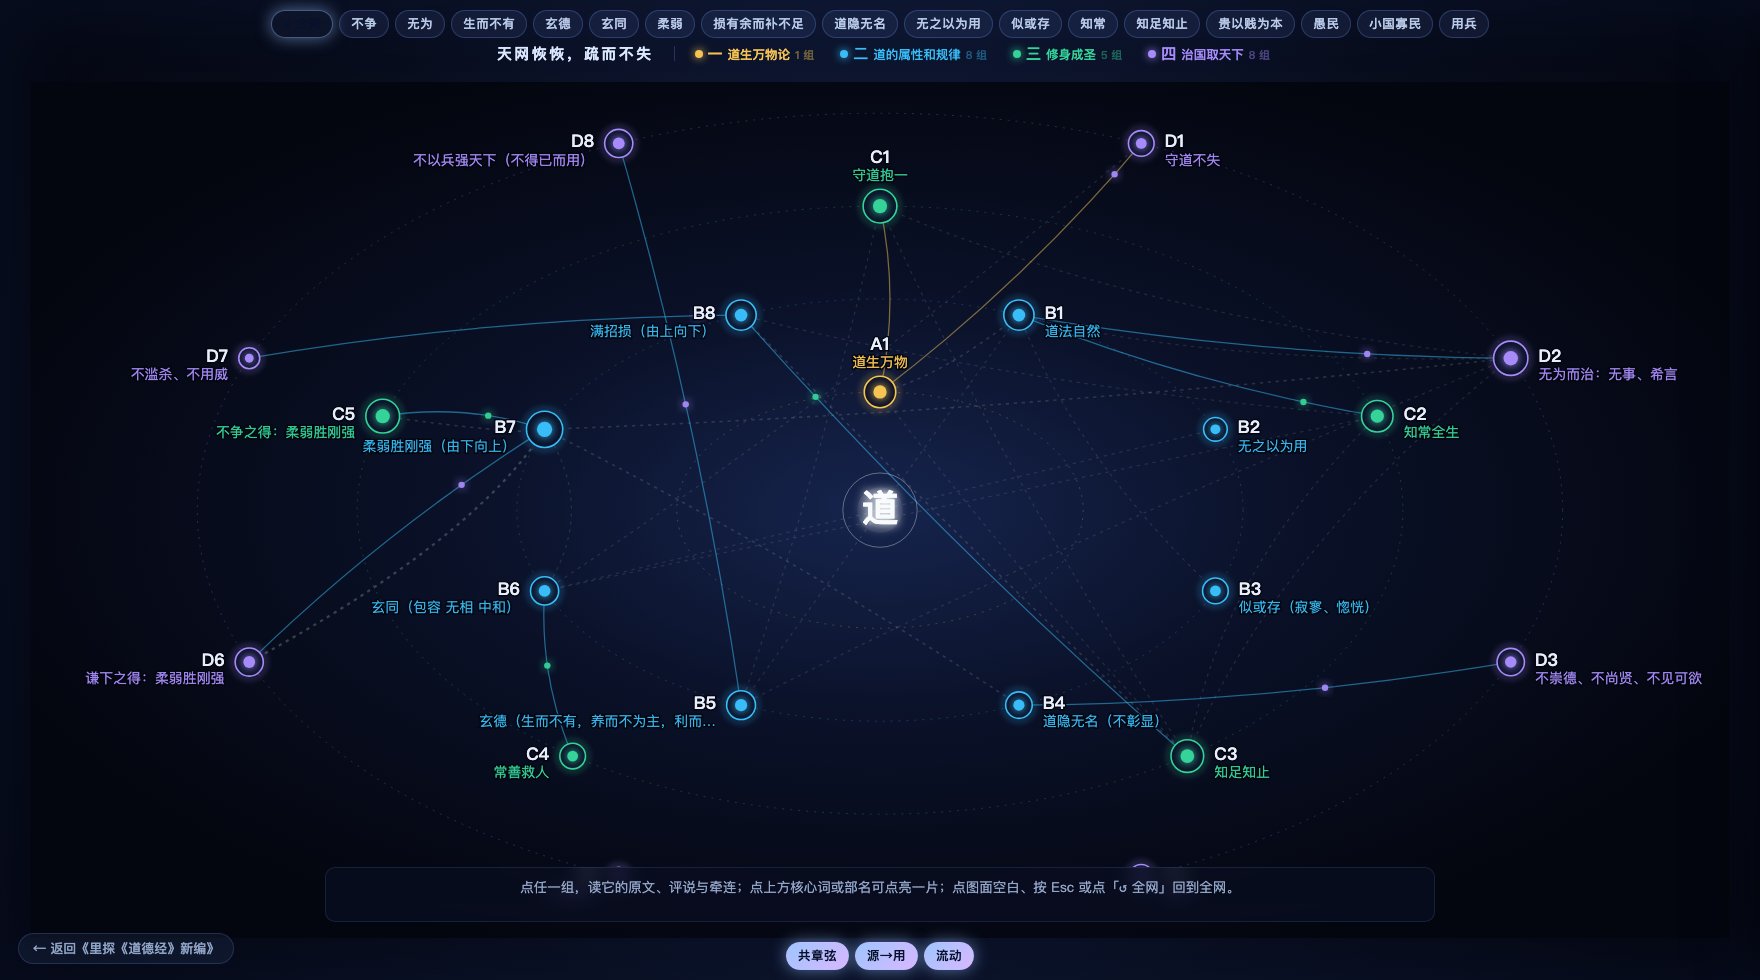
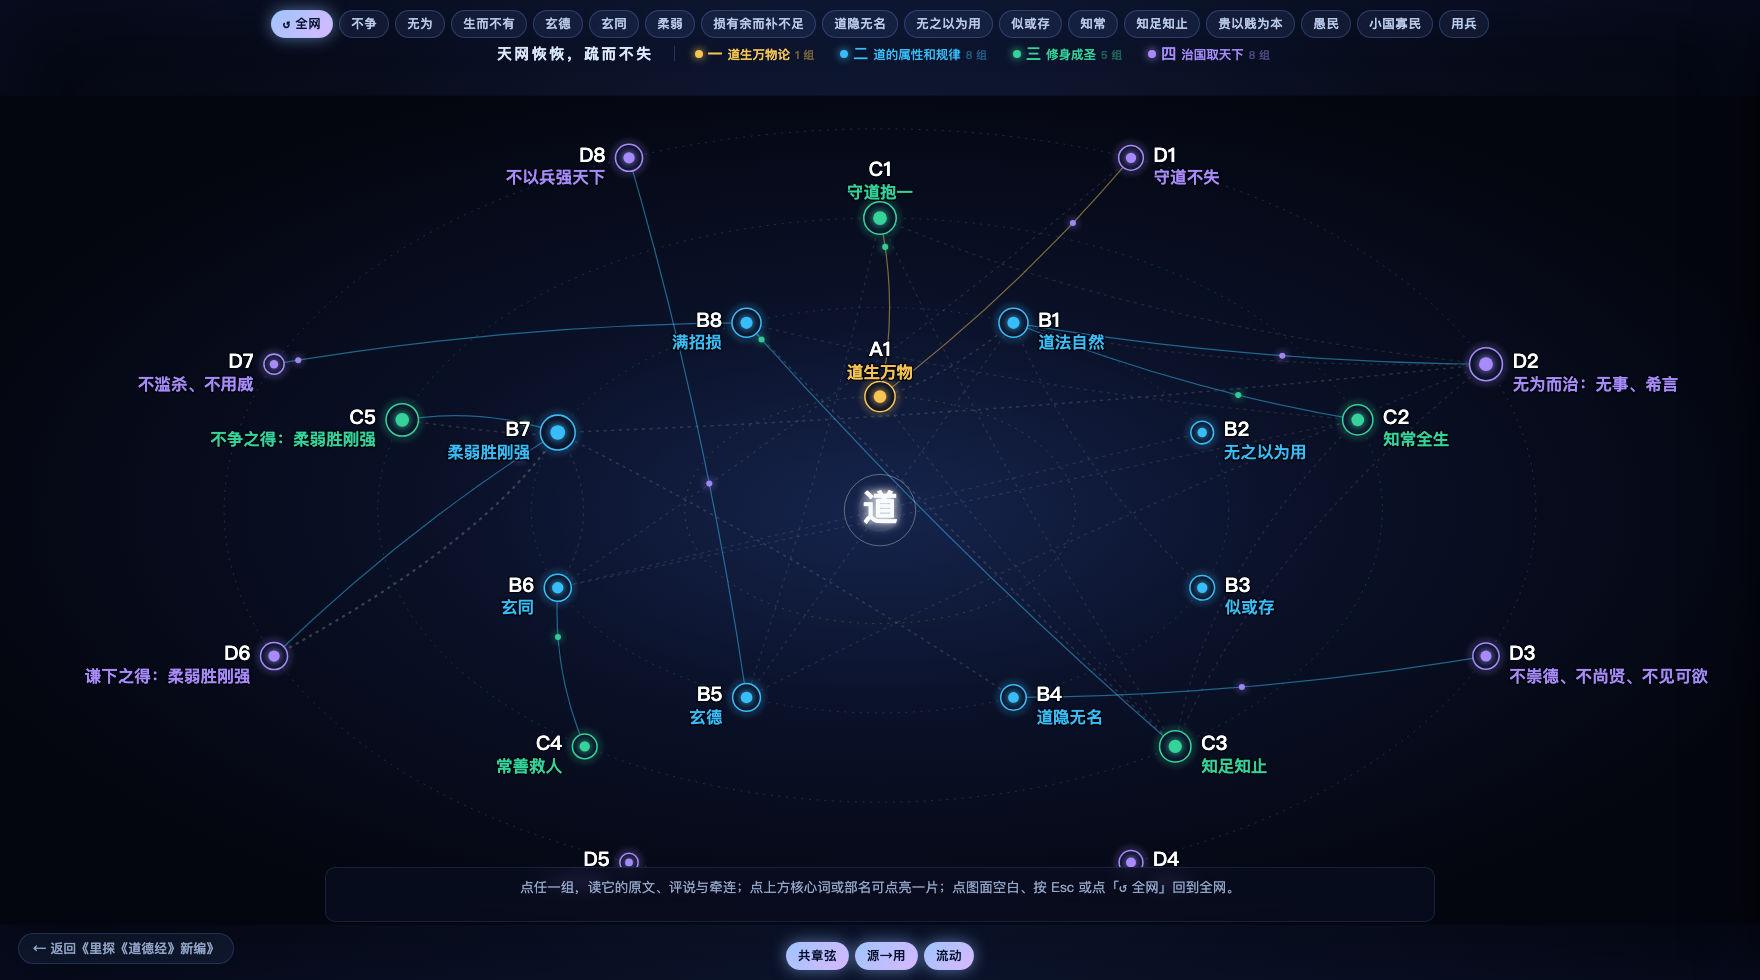
天网恢恢：节点字号放大、组名去括注
① 节点文字更清楚
- 编号 26 → 31，改为纯白
- 组名 21 → 26，加粗（font-weight 600），不透明度提到 1
- 行距 26 → 34；画布 2560×1290 → 2760×1300（字号变大后仍放得下）

② 组名不再显示（…）括注
- 新增 dispName()：去掉（…）后再显示
- 应用范围：节点标签、悬停提示、抽屉标题
  （00.md／88.md 中的完整组名不变）
- 效果：玄德（生而不有，养而不为主，利而不害）→ 玄德；
  似或存（寂寥、惚恍）→ 似或存；不以兵强天下（不得已而用）→ 不以兵强天下
- 名字变短后不再触发 16 字截断（上限放宽到 14 字）

顺带修
- 「↺ 全网」按钮文字一度不可见：新增的 .tdn-chip.tdn-all 覆盖了
  .tdn-chip.on 的渐变底，深色字落在深色底上；已在 .tdn-all.on 补回渐变

diff --git a/_script/tiandao-net.js b/_script/tiandao-net.js
@@ -37,6 +37,8 @@
     var t = el('text', Object.assign({ x: x, y: y, 'font-family': '-apple-system,"PingFang SC","Microsoft YaHei",sans-serif' }, attrs || {}));
     t.textContent = s; return t;
   }
+  /* 节点/提示显示组名时去掉（…）括注，短而清楚 */
+  function dispName(s) { return String(s).replace(/（[^）]*）/g, '').trim(); }
   function esc(s) { return String(s).replace(/&/g, '&amp;').replace(/</g, '&lt;').replace(/>/g, '&gt;'); }
   function md(s) {
     return esc(s)
@@ -99,7 +101,7 @@
       });
     });
 
-    var W = 2560, H = 1290;
+    var W = 2760, H = 1300;
     var svg = el('svg', {
       viewBox: (-W / 2) + ' ' + (-H / 2) + ' ' + W + ' ' + H,
       class: 'tdn-svg', preserveAspectRatio: 'xMidYMid meet'
@@ -173,11 +175,12 @@
       else if (cos > 0) { anchor = 'start'; lx = p.x + r + 16; ly = p.y + 6; }
       else { anchor = 'end'; lx = p.x - r - 16; ly = p.y + 6; }
       g.appendChild(tx(lx, ly, n.id, {
-        fill: '#e8eefc', 'font-size': 26, 'font-weight': 700, 'text-anchor': anchor,
+        fill: '#ffffff', 'font-size': 31, 'font-weight': 700, 'text-anchor': anchor,
         style: 'paint-order:stroke;stroke:#04060f;stroke-width:5'
       }));
-      g.appendChild(tx(lx, ly + 26, n.name.length > 16 ? n.name.slice(0, 16) + '…' : n.name, {
-        fill: c, 'font-size': 21, 'text-anchor': anchor, 'fill-opacity': 0.95,
+      var nm = dispName(n.name);
+      g.appendChild(tx(lx, ly + 34, nm.length > 14 ? nm.slice(0, 14) + '…' : nm, {
+        fill: c, 'font-size': 26, 'font-weight': 600, 'text-anchor': anchor, 'fill-opacity': 1,
         style: 'paint-order:stroke;stroke:#04060f;stroke-width:5'
       }));
       gNode.appendChild(g); nodeEls[n.id] = g;
@@ -232,7 +235,7 @@
       var n = byId[id], c = COLOR[n.dept];
       head.innerHTML =
         '<span class="tdn-badge" style="--c:' + c + '">' + n.dept + '部　' + SHORT[n.dept] + '</span>' +
-        '<h3>' + esc(id) + '　' + esc(n.name) + '</h3>' +
+        '<h3>' + esc(id) + '　' + esc(dispName(n.name)) + '</h3>' +
         '<p class="tdn-meta">收录 <b>' + n.chs.length + '</b> 章 · <b>' + n.n + '</b> 句　' +
         n.chs.map(function (x) { return '<a class="tdn-ch" href="index.html#/' + pad(x) + '">' + pad(x) + '</a>'; })
           .join('<span class="tdn-sep">·</span>') + '</p>';
@@ -410,7 +413,7 @@
     /* 节点：悬停＝预览；移开＝回选中态；点击＝选中并读原文 */
     function nodeHTML(id) {
       var n = byId[id];
-      return '<b style="color:' + COLOR[n.dept] + '">' + id + '　' + esc(n.name) + '</b>' +
+      return '<b style="color:' + COLOR[n.dept] + '">' + id + '　' + esc(dispName(n.name)) + '</b>' +
         '　收录 <b>' + n.chs.length + '</b> 章 / <b>' + n.n + '</b> 句　·　点它读原文';
     }
     function openNode(id) { setSel([id], nodeHTML(id), null, null); open(id); }

diff --git a/_style/tiandao-net.css b/_style/tiandao-net.css
@@ -186,4 +186,5 @@ body.tdn-standalone .tdn-toggles { padding: 4px 12px 10px; }
 .tdn-chip.tdn-all { color: #a9c2ee; border-style: dashed;
   border-color: rgba(150,190,255,.42); background: rgba(120,160,255,.05); }
 .tdn-chip.tdn-all:hover { border-style: solid; color: #eaf1ff; }
-.tdn-chip.tdn-all.on { color: #06122b; border-style: solid; }
+.tdn-chip.tdn-all.on { color: #06122b; border-style: solid;
+  background: linear-gradient(135deg, #9ec5ff, #d9b8ff); }
